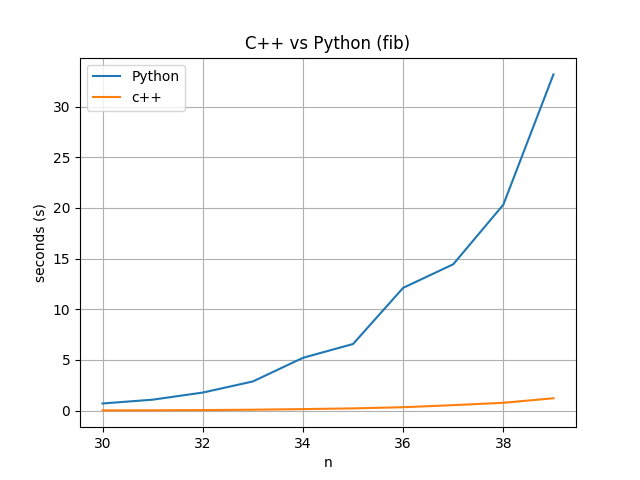
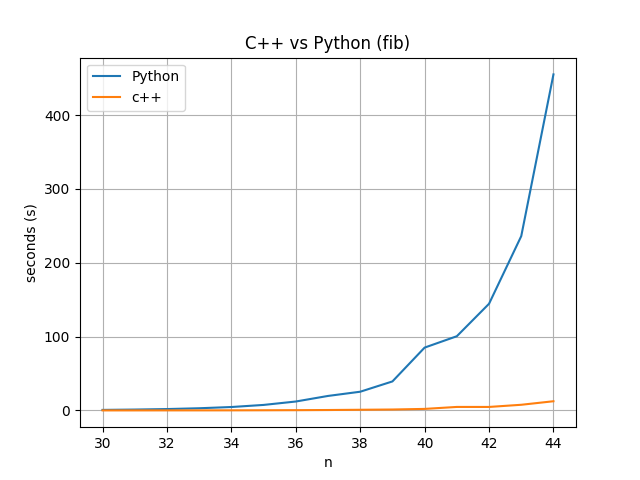
final

diff --git a/prog2/OU4/OU4_2/heltal.cpp b/prog2/OU4/OU4_2/heltal.cpp
@@ -6,10 +6,10 @@ class Heltal{
 		Heltal(int);
 		int get();
 		void set(int);
-		int fib();
+		long long int fib();
 	private:
 		int val;
-		int _fib(int);
+		long long int _fib(int);
 	};
  
 Heltal::Heltal(int n){
@@ -24,15 +24,15 @@ void Heltal::set(int n){
 	val = n;
 	}
 
-int Heltal::fib(){
+long long int Heltal::fib(){
 	return _fib(val);
 	}
 
-int Heltal::_fib(int n){
+long long int Heltal::_fib(int n){
 	if (n<=1){
 	return n;
 	} else {
-	return _fib(n-1)+_fib(n-2);
+	return (_fib(n-1)+_fib(n-2));
 	}
 	}
 	
@@ -41,7 +41,7 @@ extern "C"{
 	Heltal* Heltal_new(int n) {return new Heltal(n);}
 	int Heltal_get(Heltal* heltal) {return heltal->get();}
 	void Heltal_set(Heltal* heltal, int n) {heltal->set(n);}
-	int Heltal_fib(Heltal* heltal) {return heltal->fib();}
+	long long int Heltal_fib(Heltal* heltal) {return heltal->fib();}
 	void Heltal_delete(Heltal* heltal){
 		if (heltal){
 			delete heltal;

diff --git a/prog2/OU4/OU4_2/ou4_2.py b/prog2/OU4/OU4_2/ou4_2.py
@@ -13,7 +13,7 @@ def fib_py(n):
 def main():
 	pytime = []
 	ctime = []
-	for i in range(30,35):
+	for i in range(30,45):
 		t1 = pc()
 		f=Heltal(i)
 		f.fib()
@@ -22,7 +22,7 @@ def main():
 		t3 = pc()
 		pytime.append(t3-t2)
 		ctime.append(t2-t1)
-	n = [*range(30,35)]
+	n = [*range(30,45)]
 	fig, ax = plt.subplots()
 	ax.plot(n,pytime,label='Python')
 	ax.plot(n,ctime,label='c++')
@@ -31,8 +31,8 @@ def main():
 	ax.grid()
 	fig.savefig('test.png')
 	plt.show()
-	f = Heltal(40)
-	print(f'Time with n = 47: {f.fib()}')
+	f = Heltal(47)
+	print(f'f.fib() med n = 47: {f.fib()}')
 
 if __name__ == '__main__':
 	main()

diff --git a/prog2/OU4/OU4_2/heltal.py b/prog2/OU4/OU4_2/heltal.py
@@ -10,7 +10,7 @@ class Heltal(object):
 		lib.Heltal_get.restype = ctypes.c_int
 		lib.Heltal_set.argtypes = [ctypes.c_void_p,ctypes.c_int]
 		lib.Heltal_fib.argtypes = [ctypes.c_void_p]
-		lib.Heltal_fib.restype = ctypes.c_int
+		lib.Heltal_fib.restype = ctypes.c_longlong
 		lib.Heltal_delete.argtypes = [ctypes.c_void_p]
 		self.obj = lib.Heltal_new(val)
 
